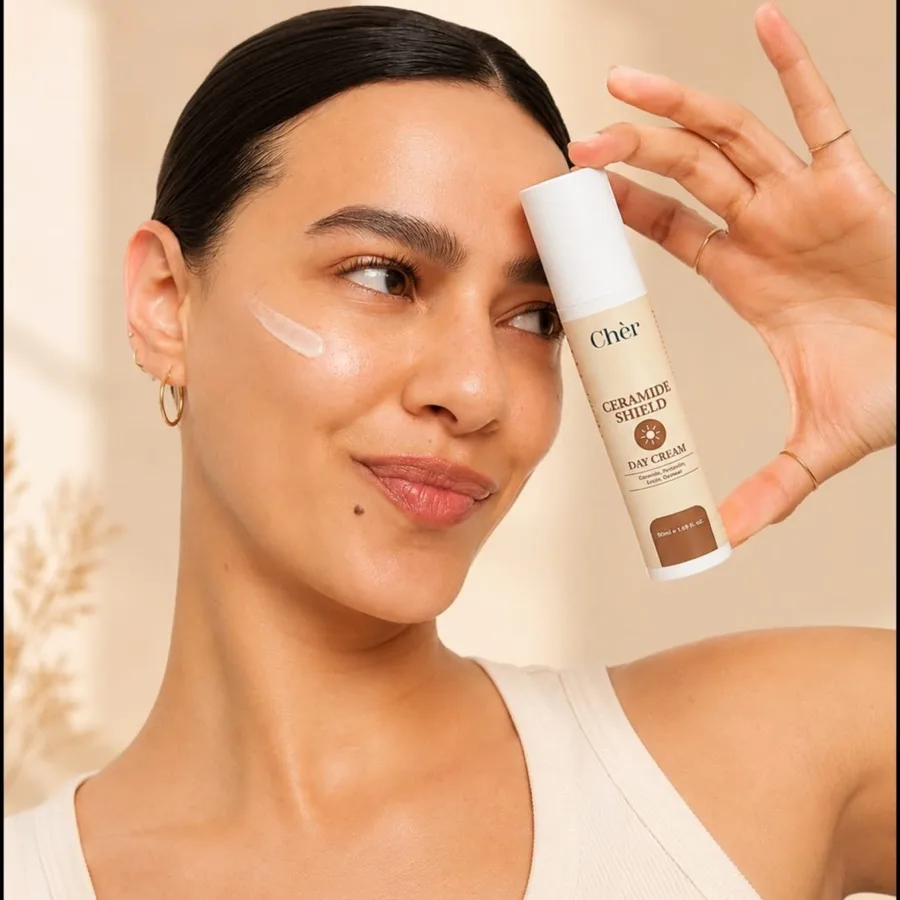
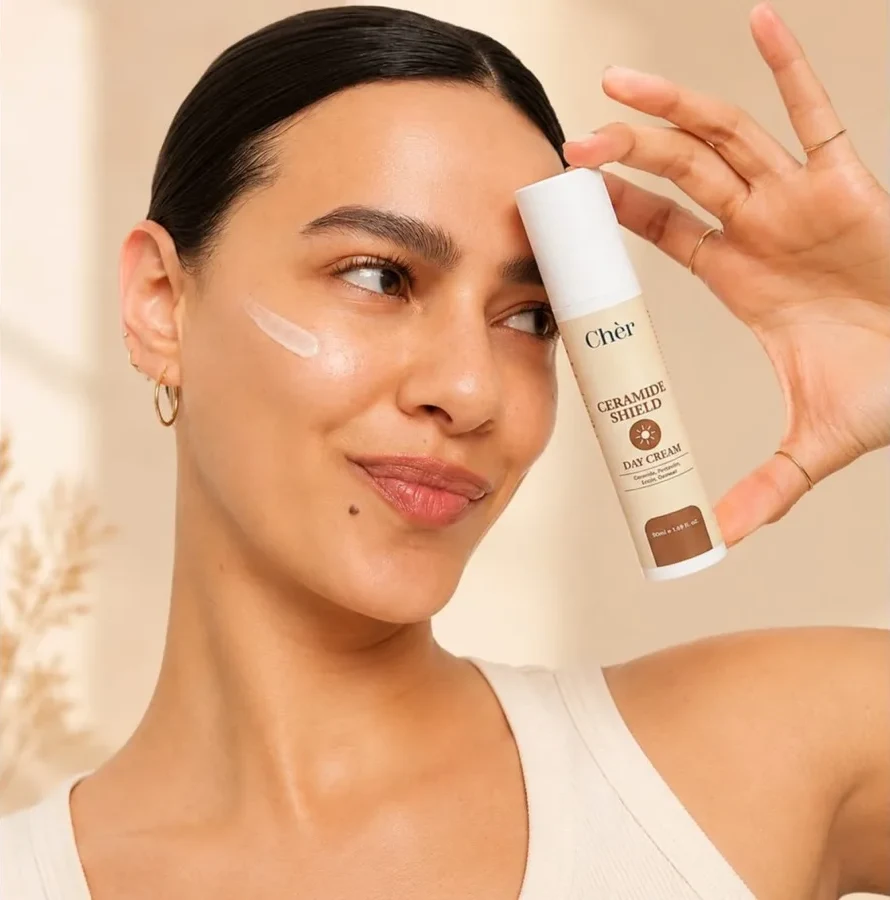
website-dev/mobile hero, cher crop, standardized buttons, reviews tweaks
- remove italic serif emphasis from website-dev and mobile-app hero headings
- crop baked-in black side bars off cher.webp (fixes left/right "border")
- restyle the two Ecommerce Onboarding CTAs to the homepage teal-box button
- swap Post-review and Submit-referral buttons to the standard rv-button
- temporarily disable reCAPTCHA on the reviews page (no key yet); server
  already treats the captcha as optional so submissions still work

diff --git a/src/components/refer/ReferForm.tsx b/src/components/refer/ReferForm.tsx
@@ -79,13 +79,20 @@ export default function ReferForm() {
 
       {error && <p className="text-red-500 text-sm mt-3">{error}</p>}
 
-      <button
-        type="submit"
-        disabled={submitting}
-        className="mt-6 w-full py-3 rounded-full bg-primary text-black font-medium hover:opacity-90 disabled:opacity-60 transition-opacity"
-      >
-        {submitting ? 'Submitting…' : 'Submit referral'}
-      </button>
+      <div className="mt-6">
+        <button
+          type="submit"
+          disabled={submitting}
+          className="rv-button rv-button-primary inline-block disabled:pointer-events-none disabled:opacity-60"
+        >
+          <div className="rv-button-top">
+            <span className="text-nowrap">{submitting ? 'Submitting…' : 'Submit referral'}</span>
+          </div>
+          <div className="rv-button-bottom">
+            <span className="text-nowrap">{submitting ? 'Submitting…' : 'Submit referral'}</span>
+          </div>
+        </button>
+      </div>
       <p className="text-xs text-secondary/40 dark:text-backgroundBody/40 mt-3 text-center">
         We’ll only use these emails to process your referral. No spam.
       </p>

diff --git a/src/components/reviews/ReviewsApp.tsx b/src/components/reviews/ReviewsApp.tsx
@@ -16,6 +16,10 @@ import { Stars, StarInput, Avatar } from './Stars';
 import { useRecaptcha } from './useRecaptcha';
 import ReviewsGlobe from './ReviewsGlobe';
 
+// Temporarily disabled until a valid reCAPTCHA key is configured.
+// Flip to true (and restore the script in reviews.astro) to re-enable.
+const RECAPTCHA_ENABLED = false;
+
 type SortKey = 'newest' | 'highest' | 'lowest';
 
 // ─────────────────────────────────────────────────────────────
@@ -130,7 +134,7 @@ function ReviewForm({ onPosted }: { onPosted: (r: Review, token: string) => void
   const [otpNote, setOtpNote] = useState<string | null>(null);
   const [submitting, setSubmitting] = useState(false);
   const [status, setStatus] = useState<{ type: 'error' | 'success'; msg: string } | null>(null);
-  const recaptcha = useRecaptcha(open);
+  const recaptcha = useRecaptcha(open && RECAPTCHA_ENABLED);
 
   async function sendCode() {
     if (!/^\S+@\S+\.\S+$/.test(email)) {
@@ -324,7 +328,7 @@ function ReviewForm({ onPosted }: { onPosted: (r: Review, token: string) => void
               <input type="text" name="website" tabIndex={-1} autoComplete="off" />
             </div>
 
-            <div className="md:col-span-full" ref={recaptcha.containerRef} />
+            {RECAPTCHA_ENABLED && <div className="md:col-span-full" ref={recaptcha.containerRef} />}
 
             {status && (
               <div
@@ -340,9 +344,14 @@ function ReviewForm({ onPosted }: { onPosted: (r: Review, token: string) => void
               <button
                 type="submit"
                 disabled={submitting}
-                className="bg-primary text-black font-medium px-6 py-3 rounded-full hover:opacity-90 transition-opacity disabled:opacity-60"
+                className="rv-button rv-button-primary inline-block disabled:pointer-events-none disabled:opacity-60"
               >
-                {submitting ? 'Posting…' : 'Post review'}
+                <div className="rv-button-top">
+                  <span className="text-nowrap">{submitting ? 'Posting…' : 'Post review'}</span>
+                </div>
+                <div className="rv-button-bottom">
+                  <span className="text-nowrap">{submitting ? 'Posting…' : 'Post review'}</span>
+                </div>
               </button>
             </div>
           </div>